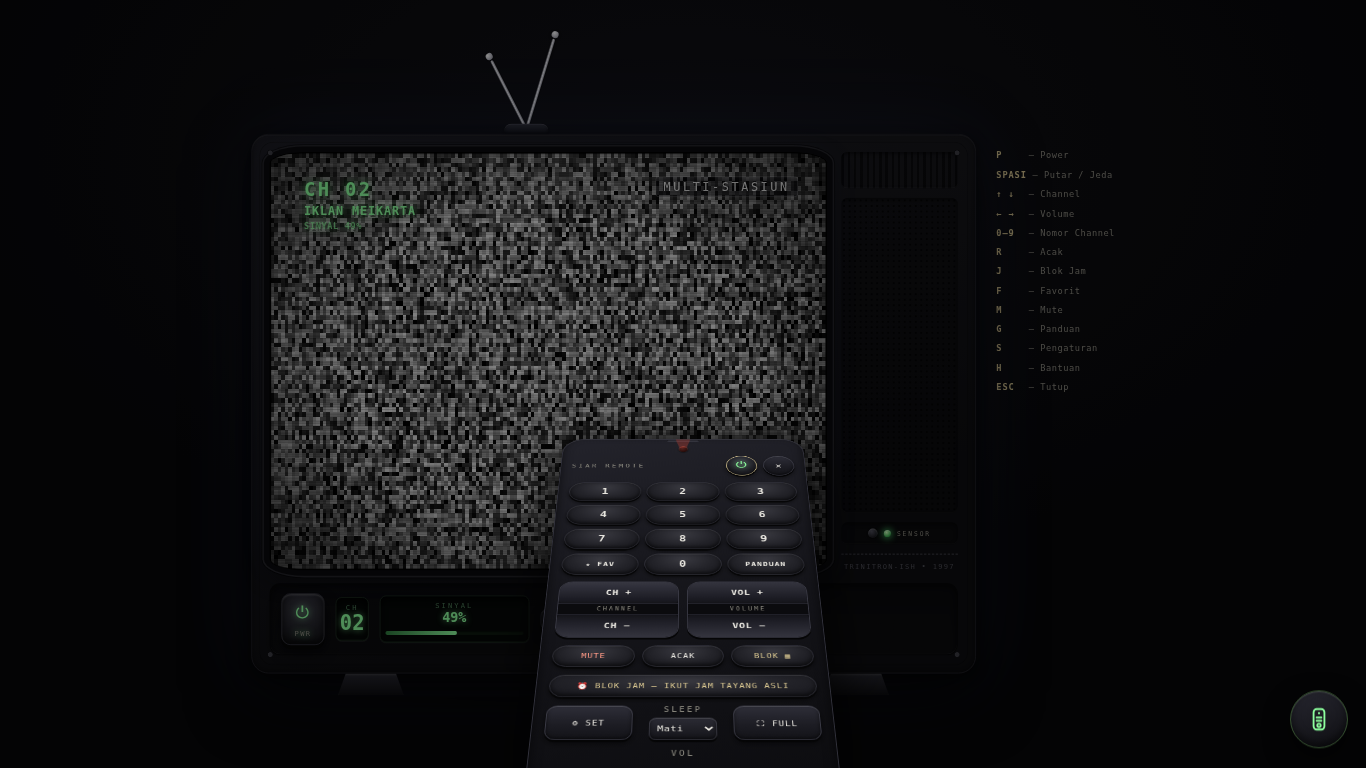
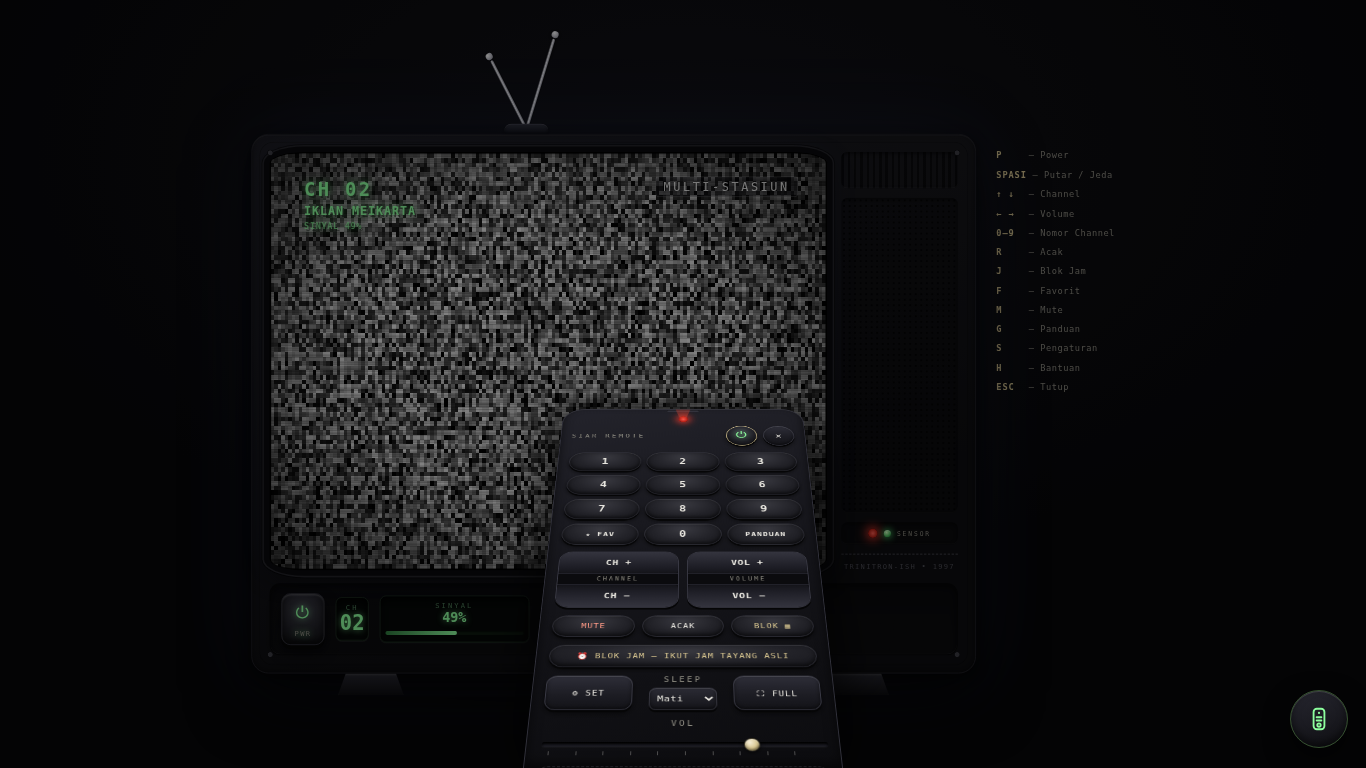
audit siklus 43: remote tidak lagi terpotong viewport (point.open translate)

Changed region(s): [[0.1845, 0.1875, 0.6149, 0.9688], [0.6149, 0.6875, 0.6457, 0.7188]]

diff --git a/assets/css/style.css b/assets/css/style.css
@@ -937,7 +937,7 @@ kbd {
 /* ---------- Remote: mode mengarah ke TV ---------- */
 .remote.point { transform: translate(-50%, 112%) perspective(950px) rotateX(30deg); }
 .remote.point.open {
-  transform: translate(-50%, 5%) perspective(950px) rotateX(34deg) scale(.97);
+  transform: translate(-50%, 0) perspective(950px) rotateX(34deg) scale(.97);
   transform-origin: 50% 100%;
 }
 .remote-led-wrap { position: relative; }

diff --git a/AUDIT_LOG.md b/AUDIT_LOG.md
@@ -619,3 +619,20 @@ Baseline katalog: **265 entri unik** (terverifikasi dari `assets/js/channels.js`
 - **Next:** Batch berikutnya.
 
 **Total siklus tercatat: 42**
+
+---
+
+## Siklus 43 — 2026-10-11 07:32 WIB — Remote terpotong 30px di bawah viewport
+
+- **Area:** `assets/css/style.css` (`.remote.point.open`).
+- **Masalah & bukti:** Screenshot QA tunjukkan bawah remote (slider volume) terpotong.
+  Ukur headless 1366×768: `panelBottom=798 > vh=768`; penyebab: `translate(-50%, 5%)`
+  (= +30px) pada rule `.remote.point.open` yang meng-override `.remote.open`.
+- **Severity:** Sedang (dimensi 4; kontrol volume tak terlihat penuh).
+- **Implementasi:** `translate(-50%, 5%)` → `translate(-50%, 0)`; estetika tilt perspektif dipertahankan.
+- **Test:** Ukur ulang: `panelBottom=768` (pas); screenshot `shots/tmp-remote43c.png`
+  konfirmasi visual; `remote-click.js` 18/18 PASS, 0 pageerror.
+- **Before/after:** Dimensi 4: 8.0→8.2.
+- **Next:** Lanjut katalog.
+
+**Total siklus tercatat: 43**
